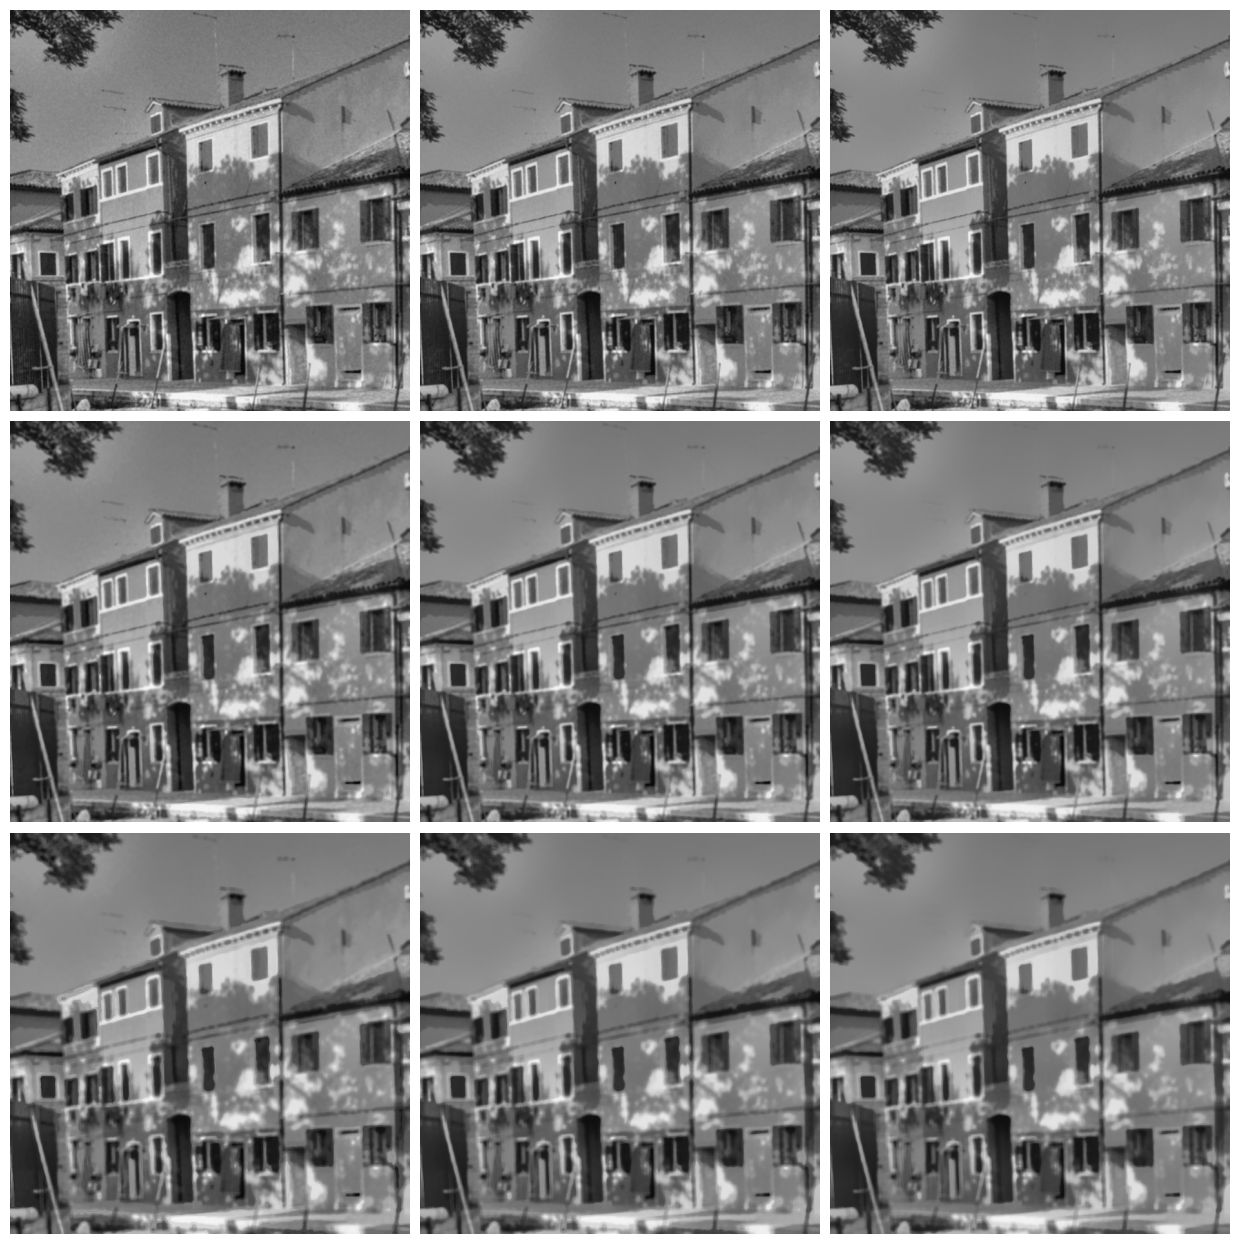
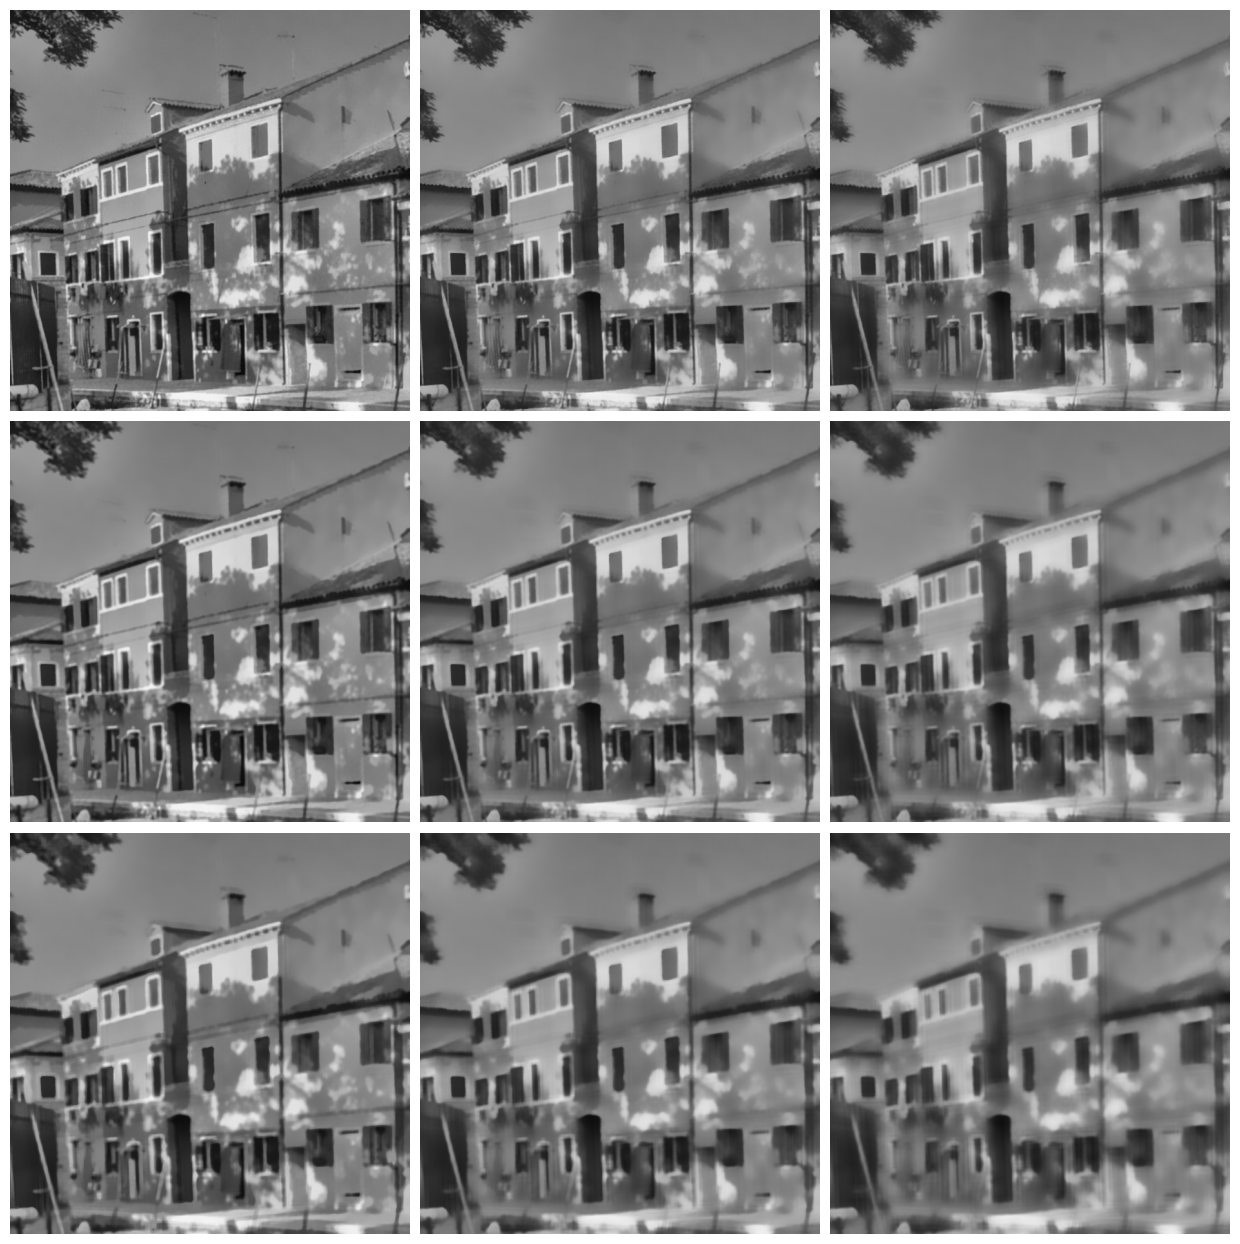
README results (#16)

diff --git a/README.md b/README.md
@@ -11,6 +11,7 @@ Topic: Nonlinear filtering for large 3D image data (Bilateral filter, Non-local 
 - 2D Non-local means filter (pixel wise implementation) ✔
 - Fast 2D Non-local means filter (integral image) ✔
 - CLI ✔
+- rendering 3D volumetric data ✔
 
 ...
 - 3D Bilateral filter
@@ -28,13 +29,13 @@ Topic: Nonlinear filtering for large 3D image data (Bilateral filter, Non-local 
 
 | Parameter   | Value |
 |:------------|:-----:|
-| Space sigma | 15    |
+| Space sigma | 6     |
 | Range sigma | 25.5  |
 
 | Filter variant | Time \[s\]|
 |:---------------|----------:|
-| Bilateral      | 1.8573116 |
-| Fast Bilateral | 0.1328743 |
+| Bilateral      | 1.8596089 |
+| Fast Bilateral | 0.2009760 |
 
 ![Bilateral filter](/Images/bl-noisy-vs-bilateral.png)
 
@@ -42,17 +43,28 @@ Topic: Nonlinear filtering for large 3D image data (Bilateral filter, Non-local 
 
 | Parameter   | Value |
 |:------------|:-----:|
-| h           | 6     |
+| h           | 15    |
 | Patch size  | 3x3   |
 | Window size | 21x21 |
 
 | Filter variant | Time \[s\] |
 |:---------------|-----------:|
-| Pixel wise     | 20.6308629 |
-| Patch wise     | 2.6464456  |
-| Integral image | 2.8232714  |
+| Pixel wise     | 20.2834070 |
+| Patch wise     | 3.2618740  |
+| Integral image | 2.6450633  |
 
 Pixel wise
 ![Non-local means filter](/Images/nlm-noisy-vs-pixel.png)
 Patch wise / Integral image
 ![Non-local means filter](/Images/nlm-noisy-vs-patch.png)
+
+## Bilateral vs Non-local means
+
+Edge preservation
+![Edge preservation](/Images/edge-preservation.png)
+
+
+## Rendering volumetric data
+3D rendering volumetric data using ray casting
+
+![Volumetric image](/Images/3drender.png)
